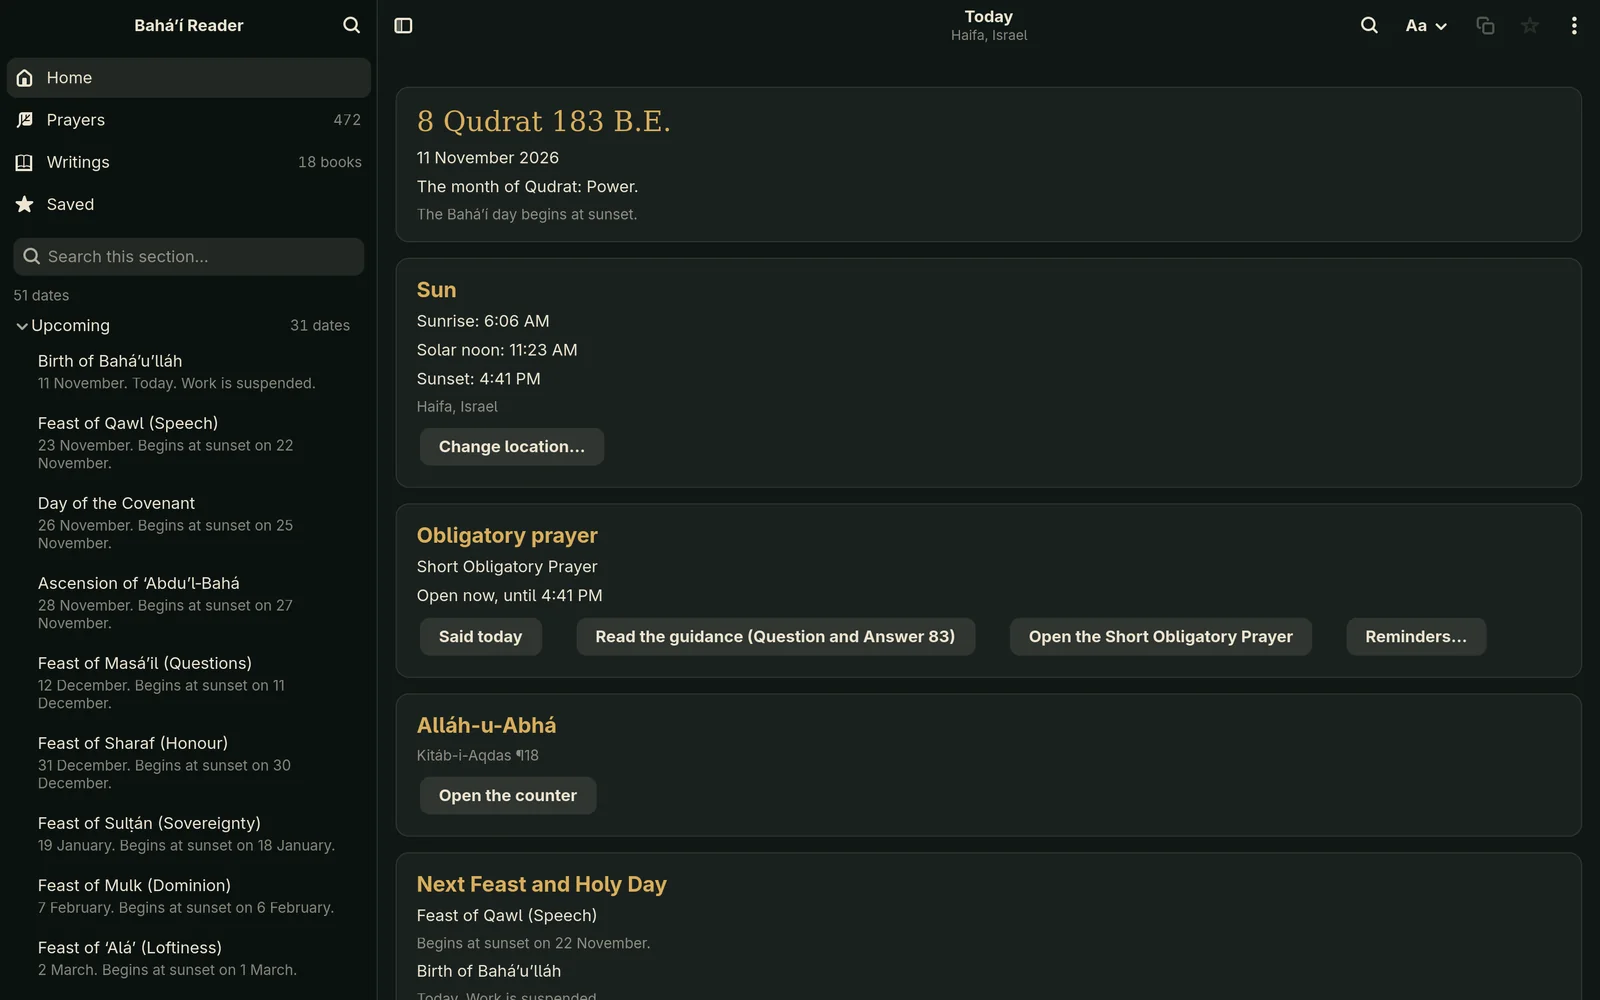
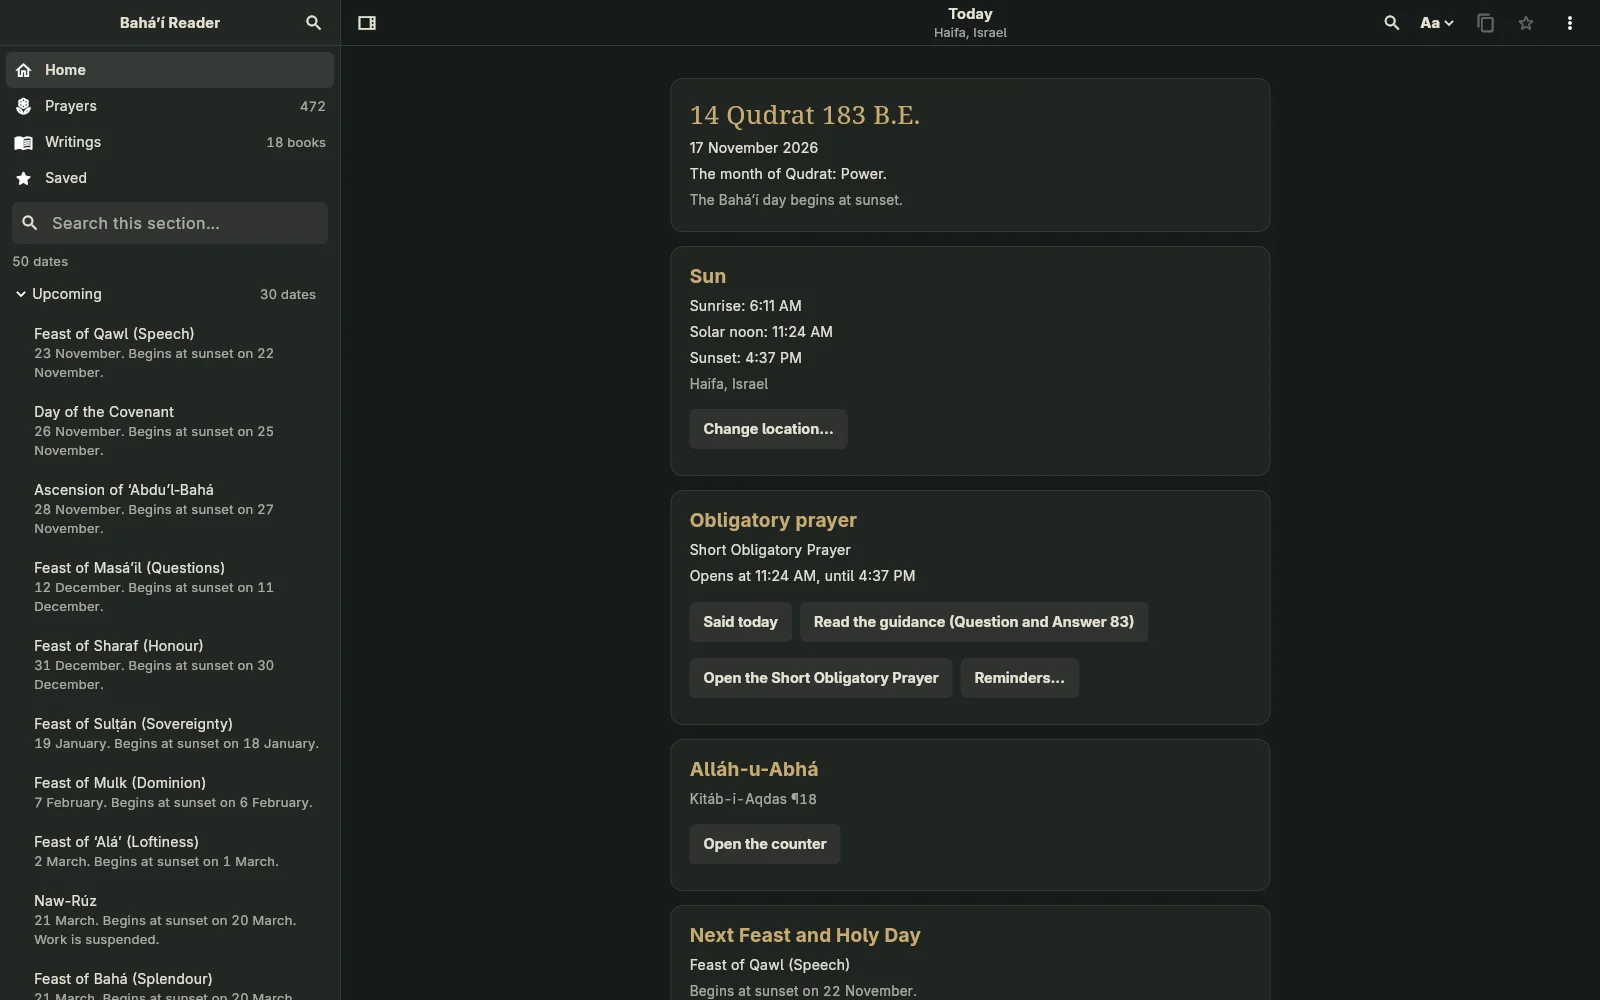
Desktop screenshots of 1.0 for the site, rendered off screen; buttons and tooltips use the interface font
- scripts/screenshots/desktop_shots_test.dart renders the desktop window with the real library and system fonts
  (flutter test ... --update-goldens), scripts/screenshots/convert.sh writes docs/screenshots/*.webp
- Home, a book with its contents, a highlight with its note, Today, Ctrl+K search, focus mode, the light palette
- The social card shows the 1.0 Home and names Linux, Android and Windows
- GTK 0.2 screenshots the site no longer shows are removed (they stay on gtk-legacy)
- Theme: button and tooltip text styles named no font family, so they used the system default and ignored
  Aa → Interface font

diff --git a/docs/index.html b/docs/index.html
@@ -15,12 +15,12 @@
 <meta property="og:url" content="https://bahaireader.org/">
 <meta property="og:image" content="https://bahaireader.org/social-card.png">
 <meta property="og:image:width" content="1200"><meta property="og:image:height" content="630">
-<meta property="og:image:alt" content="Bahá’í Reader on Linux: Home, with today’s Badí‘ date and the library of books">
+<meta property="og:image:alt" content="Bahá’í Reader 1.0 on Linux: Home, with today’s Badí‘ date, Continue reading and the library of books">
 <meta name="twitter:card" content="summary_large_image">
 <meta name="twitter:title" content="Bahá’í Reader — Bahá’í prayers and writings for Linux, Android and Windows">
 <meta name="twitter:description" content="Read Bahá’í prayers, the Hidden Words, and writings offline on Linux, Android and Windows.">
 <meta name="twitter:image" content="https://bahaireader.org/social-card.png">
-<meta name="twitter:image:alt" content="Bahá’í Reader on Linux: Home, with today’s Badí‘ date and the library of books">
+<meta name="twitter:image:alt" content="Bahá’í Reader 1.0 on Linux: Home, with today’s Badí‘ date, Continue reading and the library of books">
 <meta name="theme-color" content="#0f1715"><link rel="icon" href="icon.svg" type="image/svg+xml"><link rel="stylesheet" href="style.css">
 <script type="application/ld+json">{"@context":"https://schema.org","@type":"SoftwareApplication","name":"Bahá’í Reader","applicationCategory":"EducationalApplication","operatingSystem":"Linux, Android, Windows","description":"An offline Bahá’í prayer book and writings reader for Linux, Android and Windows.","url":"https://bahaireader.org/","downloadUrl":"https://github.com/ninepointlabs/bahai-reader/releases","softwareVersion":"1.0.0","isAccessibleForFree":true,"license":"https://github.com/ninepointlabs/bahai-reader/blob/main/LICENSE","author":{"@type":"Person","name":"Tim Apple"},"offers":{"@type":"Offer","price":"0","priceCurrency":"USD"}}</script>
 <script>window.goatcounter={path:function(p){return location.host+p}}</script>
@@ -33,12 +33,12 @@
 <main id="main">
 <section class="hero">
 <div class="hero-copy"><p class="eyebrow"><span></span> LINUX · ANDROID · WINDOWS · v1.0</p><h1>A quiet place<br>for the <em>Writings.</em></h1><p class="lead">Prayers for every moment. Words to return to.<br>Your Bahá’í library, always within reach—even offline.</p><div class="actions"><a class="primary" href="#download">Download <span>↓</span></a><a class="text-link" href="#phone">On your phone →</a></div><p class="fine">Free & open-source code. No account needed.</p></div>
-<figure class="shot hero-shot"><img src="screenshots/01-home-library.webp" width="1600" height="1000" fetchpriority="high" alt="Bahá’í Reader’s Home: today’s Badí‘ date, the obligatory prayer and the passage of the day, Continue reading with three books, and the library grouped by author."><figcaption>Home on Linux in version 0.2, following the Omarchy theme.</figcaption></figure>
+<figure class="shot hero-shot"><img src="screenshots/01-home-library.webp" width="1600" height="1000" fetchpriority="high" alt="Bahá’í Reader’s Home: today’s Badí‘ date, the obligatory prayer and the passage of the day, Continue reading with three books, and the library grouped by author."><figcaption>Home in Bahá’í Reader 1.0 on Linux.</figcaption></figure>
 </section>
 <div class="facts"><div><strong>18</strong><span>Books in English, plus 472 prayers</span></div><div><strong>112</strong><span>Prayer languages in the catalog</span></div><div><strong>Offline</strong><span>Read without a connection</span></div></div>
 <section id="tour" class="tour"><div class="section-intro"><p class="eyebrow">A SHORT TOUR · 1:25</p><h2>See it before<br>you install it.</h2><p>Home, a book, Today, the obligatory prayers, search, highlights and focus mode, in the real 0.2.2 window. Narrated, with captions.</p></div><video controls preload="none" playsinline width="1920" height="1080" poster="media/bahai-reader-demo-poster.webp" aria-label="A 1 minute 25 second narrated tour of Bahá’í Reader 0.2.2, with captions"><source src="media/bahai-reader-demo.mp4" type="video/mp4"><a href="media/bahai-reader-demo.mp4">Download the tour (MP4, 8.6 MB)</a></video></section>
 <section id="library" class="library"><div class="section-intro"><p class="eyebrow">A LIBRARY, THOUGHTFULLY ARRANGED</p><h2>Find your place.<br>Make time to read.</h2><p>Home shows the day at a glance and where you left off. Every book is a card, grouped by author. Open one and the sidebar becomes its contents.</p></div><div class="collections"><article><span class="index">01</span><div><h3>Prayer book</h3><p>472 English prayers organized by topic. Search locally, see prayer lengths, and save passages to return to.</p></div></article><article><span class="index">02</span><div><h3>The Hidden Words</h3><p>The Arabic and Persian sections, each in its own place. Move from one passage to the next at your own pace.</p></div></article><article><span class="index">03</span><div><h3>Writings & messages</h3><p>Seventeen more books by Bahá’u’lláh, ‘Abdu’l‑Bahá, Shoghi Effendi and the Universal House of Justice, from Gleanings and the Kitáb-i-Íqán to God Passes By and the messages of the Universal House of Justice. Aqdas notes and references work offline, too.</p><details><summary>See all seventeen books</summary><p class="by">Bahá’u’lláh</p><ul><li>Gleanings from the Writings of Bahá’u’lláh</li><li>Prayers and Meditations</li><li>Tablets of Bahá’u’lláh</li><li>The Kitáb-i-Íqán</li><li>Epistle to the Son of the Wolf</li><li>The Kitáb-i-Aqdas</li><li>Days of Remembrance</li></ul><p class="by">‘Abdu’l‑Bahá</p><ul><li>Some Answered Questions</li></ul><p class="by">Shoghi Effendi</p><ul><li>The Advent of Divine Justice</li><li>Bahá’í Administration</li><li>Citadel of Faith</li><li>This Decisive Hour</li><li>God Passes By</li><li>The Promised Day Is Come</li><li>The World Order of Bahá’u’lláh</li></ul><p class="by">The Universal House of Justice</p><ul><li>Riḍván Messages</li><li>Messages of the Universal House of Justice</li></ul></details></div></article></div></section>
-<section id="reading" class="gallery"><div class="section-intro"><p class="eyebrow">ON YOUR COMPUTER</p><h2>A window made<br>for reading.</h2><p>Home, Prayers, Writings and Saved in the sidebar, the text beside them. Shown here in version 0.2; 1.0 keeps the same layout on Linux and Windows.</p></div><div class="shots"><figure class="shot"><img src="screenshots/02-reader-hidden-words-contents.webp" width="1600" height="1000" loading="lazy" alt="The Hidden Words open at Arabic no. 12, with the book’s contents in the sidebar and the progress bar under the text."><figcaption><p class="eyebrow">A BOOK</p><h3>Contents beside the words.</h3><p>Open a book and the sidebar becomes its parts and passages, with Back to the library. Your place in the book sits under the text.</p></figcaption></figure><figure class="shot"><img src="screenshots/06-search-ctrl-k.webp" width="1600" height="1000" loading="lazy" alt="The Ctrl+K search window over a passage, with results for “radiant heart” grouped by book and This book and Everything scopes."><figcaption><p class="eyebrow">SEARCH · CTRL+K</p><h3>Every text, or only this book.</h3><p>One search over every prayer and writing, offline, without regard to case, accents or apostrophes. Results are grouped by book; Enter opens the passage at the match.</p></figcaption></figure><figure class="shot"><img src="screenshots/03-reader-highlight-note.webp" width="1600" height="1000" loading="lazy" alt="A highlighted phrase in the Hidden Words, with the highlight’s colours and note open above it."><figcaption><p class="eyebrow">HIGHLIGHTS & NOTES</p><h3>Mark a line. Add a note.</h3><p>Select words for four highlight colours and a note. Saved → Highlights & notes lists them all. They stay in your settings, never in the texts.</p></figcaption></figure><figure class="shot"><img src="screenshots/07-focus-mode.webp" width="1600" height="1000" loading="lazy" alt="Focus mode: only the passage, its heading and the reading footer fill the window."><figcaption><p class="eyebrow">FOCUS MODE · F11</p><h3>Only the words.</h3><p>F11 hides everything but the text. Press it again, or Escape, to come back.</p></figcaption></figure><figure class="shot"><img src="screenshots/04-today.webp" width="1600" height="1000" loading="lazy" alt="The Today page: the Badí‘ date 8 Qudrat 183 B.E., sunrise and sunset, the obligatory prayer, the Alláh-u-Abhá counter and the next Feast and Holy Day."><figcaption><p class="eyebrow">TODAY · CTRL+T</p><h3>The day, in one place.</h3><p>The Badí‘ date, the sun’s times for your place, the obligatory prayer, the Alláh-u-Abhá counter, and the next Feast and Holy Day.</p></figcaption></figure><figure class="shot"><img src="screenshots/10b-light-reader-highlight.webp" width="1600" height="1000" loading="lazy" alt="The Hidden Words in the light palette, with a highlight in the text."><figcaption><p class="eyebrow">LIGHT, DARK, OMARCHY</p><h3>Your theme comes with you.</h3><p>Omarchy colours follow your active theme while the app is open. Elsewhere, choose light, dark or sepia.</p></figcaption></figure></div></section>
+<section id="reading" class="gallery"><div class="section-intro"><p class="eyebrow">ON YOUR COMPUTER</p><h2>A window made<br>for reading.</h2><p>Home, Prayers, Writings and Saved in the sidebar, the text beside them. The same window on Linux and Windows.</p></div><div class="shots"><figure class="shot"><img src="screenshots/02-reader-book-contents.webp" width="1600" height="1000" loading="lazy" alt="Gleanings from the Writings of Bahá’u’lláh open at XXVII, with the book’s contents in the sidebar and the progress bar under the text."><figcaption><p class="eyebrow">A BOOK</p><h3>Contents beside the words.</h3><p>Open a book and the sidebar becomes its parts and passages, with Back to the library. Your place in the book sits under the text.</p></figcaption></figure><figure class="shot"><img src="screenshots/06-search-ctrl-k.webp" width="1600" height="1000" loading="lazy" alt="The Ctrl+K search window over a passage, with 26 results for “radiant heart” across everything and the This book and Everything scopes."><figcaption><p class="eyebrow">SEARCH · CTRL+K</p><h3>Every text, or only this book.</h3><p>One search over every prayer and writing, offline, without regard to case, accents or apostrophes. Results are grouped by book; Enter opens the passage at the match.</p></figcaption></figure><figure class="shot"><img src="screenshots/03-reader-highlight-note.webp" width="1600" height="1000" loading="lazy" alt="A highlighted phrase in the Hidden Words, Arabic no. 12, with the highlight’s colours and its note open above it."><figcaption><p class="eyebrow">HIGHLIGHTS & NOTES</p><h3>Mark a line. Add a note.</h3><p>Select words for four highlight colours and a note. Saved → Highlights & notes lists them all. They stay in your settings, never in the texts.</p></figcaption></figure><figure class="shot"><img src="screenshots/07-focus-mode.webp" width="1600" height="1000" loading="lazy" alt="Focus mode: only Gleanings XXVII, its heading and the text fill the window."><figcaption><p class="eyebrow">FOCUS MODE · F11</p><h3>Only the words.</h3><p>F11 hides everything but the text. Press it again, or Escape, to come back.</p></figcaption></figure><figure class="shot"><img src="screenshots/04-today.webp" width="1600" height="1000" loading="lazy" alt="The Today page: the Badí‘ date 14 Qudrat 183 B.E., sunrise, noon and sunset in Haifa, the Short Obligatory Prayer’s time, the Alláh-u-Abhá counter, and the Holy Days and Feasts ahead in the sidebar."><figcaption><p class="eyebrow">TODAY · CTRL+T</p><h3>The day, in one place.</h3><p>The Badí‘ date, the sun’s times for your place, the obligatory prayer, the Alláh-u-Abhá counter, and the next Feast and Holy Day.</p></figcaption></figure><figure class="shot"><img src="screenshots/10b-light-reader-highlight.webp" width="1600" height="1000" loading="lazy" alt="The Hidden Words in the light palette, with a highlight in the text."><figcaption><p class="eyebrow">LIGHT, DARK, OMARCHY</p><h3>Your theme comes with you.</h3><p>Omarchy colours follow your active theme while the app is open. Elsewhere, choose light, dark or sepia.</p></figcaption></figure></div></section>
 <section id="phone" class="gallery phone"><div class="section-intro"><p class="eyebrow">NEW IN 1.0 · ANDROID</p><h2>The same library,<br>in your pocket.</h2><p>Today, the prayers and writings, search, highlights, notes and saved passages, the Alláh-u-Abhá counter, and reminders that arrive with the app closed. Everything works offline.</p></div><div class="phone-shots">
 <figure class="shot"><img src="screenshots/phone-today.webp" width="720" height="1488" loading="lazy" alt="Today on an Android phone: the Badí‘ date 14 Qudrat 183 B.E., sunrise, noon and sunset in Haifa, and the Short Obligatory Prayer’s time."><figcaption>Today</figcaption></figure>
 <figure class="shot"><img src="screenshots/phone-prayer.webp" width="720" height="1488" loading="lazy" alt="A prayer by ‘Abdu’l‑Bahá, “O Thou kind Lord! We are servants of Thy Threshold”, open on the phone."><figcaption>A prayer</figcaption></figure>

diff --git a/scripts/screenshots/desktop_shots_test.dart b/scripts/screenshots/desktop_shots_test.dart
@@ -1,0 +1,158 @@
+// Renders the desktop window for the website's screenshots, off screen, with the real library and system fonts.
+//   flutter test scripts/screenshots/desktop_shots_test.dart --update-goldens
+// writes PNGs to scripts/screenshots/out/; scripts/screenshots/convert.sh turns them into docs/screenshots/*.webp.
+// Not part of the test suite (it lives outside test/ and needs the fonts below installed).
+import 'dart:io';
+
+import 'package:bahai_reader/core/app/app_state.dart';
+import 'package:bahai_reader/core/calendar/badi.dart';
+import 'package:bahai_reader/core/library/library_repository.dart';
+import 'package:bahai_reader/core/settings/settings_store.dart';
+import 'package:bahai_reader/main.dart';
+import 'package:flutter/material.dart';
+import 'package:flutter/services.dart';
+import 'package:flutter_test/flutter_test.dart';
+
+import '../../test/app_test.dart' show settle;
+import '../../test/disk_bundle.dart';
+
+const size = Size(1600, 1000);
+final material = '${Platform.environment['FLUTTER_ROOT']}/bin/cache/artifacts/material_fonts';
+
+final fonts = {
+  'Noto Serif': [
+    for (final s in ['Regular', 'Bold', 'Italic', 'BoldItalic']) '/usr/share/fonts/noto/NotoSerif-$s.ttf',
+  ],
+  'Adwaita Sans': [
+    '/usr/share/fonts/Adwaita/AdwaitaSans-Regular.ttf',
+    '/usr/share/fonts/Adwaita/AdwaitaSans-Italic.ttf',
+  ],
+  'Roboto': [
+    for (final s in ['Regular', 'Medium', 'Bold']) '$material/Roboto-$s.ttf',
+  ],
+  'MaterialIcons': ['$material/MaterialIcons-Regular.otf'],
+};
+
+Future<void> loadFonts() async {
+  for (final MapEntry(key: family, value: files) in fonts.entries) {
+    final loader = FontLoader(family);
+    for (final f in files) {
+      loader.addFont(Future.value(ByteData.sublistView(File(f).readAsBytesSync())));
+    }
+    await loader.load();
+  }
+}
+
+void main() {
+  late Directory dir;
+  setUpAll(loadFonts);
+  setUp(() => dir = Directory.systemTemp.createTempSync('bahai-reader-shots'));
+  tearDown(() => dir.deleteSync(recursive: true));
+
+  /// A reader's state: Haifa, the short obligatory prayer, three books read, a highlight with a note.
+  Future<AppState> state(WidgetTester tester, {String theme = 'dark'}) async {
+    final s = (await tester.runAsync(
+      () => AppState.create(
+        repository: LibraryRepository(bundle: DiskBundle()),
+        store: SettingsStore(File('${dir.path}/settings.json')),
+      ),
+    ))!;
+    await tester.runAsync(() async {
+      await s.setTheme(theme);
+      await s.setLocation(Place.clean({'label': 'Haifa, Israel', 'lat': 32.82, 'lon': 34.99, 'tz': 'Asia/Jerusalem'}));
+      await s.setPrayer('short');
+      final lib = s.library!;
+      for (final (book, id) in [
+        ('The Kitáb-i-Íqán', 'iqan:40'),
+        ('Gleanings from the Writings of Bahá’u’lláh', 'gleanings:27'),
+        ('The Hidden Words', 'hidden:12'),
+      ]) {
+        s.rememberPosition(lib.books.firstWhere((w) => w.title == book), lib.byId[id]!);
+      }
+      final p = lib.byId['hidden:12']!;
+      const words = 'within thee have I placed the essence of My light';
+      final at = p.text.indexOf(words);
+      await s.addHighlight(
+        p,
+        at,
+        at + words.length,
+        color: 'yellow',
+        note: 'Content with what is placed within: nothing else is needed.',
+      );
+    });
+    return s;
+  }
+
+  void window(WidgetTester tester) {
+    tester.view
+      ..physicalSize = size
+      ..devicePixelRatio = 1;
+    addTearDown(tester.view.reset);
+  }
+
+  Future<void> shot(String name) => expectLater(find.byType(BahaiReaderApp), matchesGoldenFile('out/$name.png'));
+
+  Future<void> keys(WidgetTester tester, LogicalKeyboardKey key, {bool control = false}) async {
+    if (control) await tester.sendKeyDownEvent(LogicalKeyboardKey.controlLeft);
+    await tester.sendKeyEvent(key);
+    if (control) await tester.sendKeyUpEvent(LogicalKeyboardKey.controlLeft);
+    await settle(tester);
+  }
+
+  Future<AppState> open(WidgetTester tester, {String? id, String theme = 'dark', int? margin}) async {
+    window(tester);
+    final s = await state(tester, theme: theme);
+    if (margin != null) s.settings.margin = margin;
+    await tester.pumpWidget(BahaiReaderApp(state: s, desktop: true, openId: id));
+    await settle(tester);
+    return s;
+  }
+
+  testWidgets('home', (tester) async {
+    await open(tester);
+    await shot('01-home-library');
+  });
+
+  testWidgets('a book with its contents', (tester) async {
+    await open(tester, id: 'gleanings:27');
+    await shot('02-reader-book-contents');
+  });
+
+  testWidgets('a highlight with its note', (tester) async {
+    await open(tester, id: 'hidden:12');
+    final text = tester.widget<SelectableText>(find.byType(SelectableText).first);
+    final at = (text.data ?? text.textSpan!.toPlainText()).indexOf('the essence');
+    text.onSelectionChanged!(TextSelection.collapsed(offset: at), SelectionChangedCause.tap);
+    await settle(tester);
+    await shot('03-reader-highlight-note');
+  });
+
+  testWidgets('today', (tester) async {
+    await open(tester);
+    await keys(tester, LogicalKeyboardKey.keyT, control: true);
+    await shot('04-today');
+  });
+
+  testWidgets('search', (tester) async {
+    final s = await open(tester, id: 'hidden:12');
+    await tester.runAsync(() => s.searchIndex());
+    await keys(tester, LogicalKeyboardKey.keyK, control: true);
+    await tester.enterText(find.widgetWithText(TextField, 'Search the texts…'), 'radiant heart');
+    await tester.pump(const Duration(milliseconds: 200));
+    await settle(tester);
+    await tester.tap(find.textContaining(RegExp(r'^Everything · ')));
+    await settle(tester);
+    await shot('06-search-ctrl-k');
+  });
+
+  testWidgets('focus mode', (tester) async {
+    await open(tester, id: 'gleanings:27', margin: 160);
+    await keys(tester, LogicalKeyboardKey.f11);
+    await shot('07-focus-mode');
+  });
+
+  testWidgets('light', (tester) async {
+    await open(tester, id: 'hidden:12', theme: 'light');
+    await shot('10b-light-reader-highlight');
+  });
+}

diff --git a/lib/core/app/theme.dart b/lib/core/app/theme.dart
@@ -186,6 +186,13 @@ ThemeData buildTheme(Palette p, {bool monospace = false}) {
   );
   final soft = fg.withValues(alpha: 0.07);
   final radius = BorderRadius.circular(6);
+  // Styles given in full (buttons, tooltips) replace the theme's text style, so they name the interface font too;
+  // otherwise they fall back to the system default font and ignore Aa → Interface font.
+  final face = TextStyle(
+    fontFamily: monospace ? 'monospace' : interfaceFonts.first,
+    fontFamilyFallback: monospace ? interfaceFonts : interfaceFonts.sublist(1),
+  );
+  final label = face.copyWith(fontWeight: FontWeight.w700, fontSize: 14.5);
   final base = ThemeData(
     colorScheme: scheme,
     useMaterial3: true,
@@ -229,7 +236,7 @@ ThemeData buildTheme(Palette p, {bool monospace = false}) {
     ),
     tooltipTheme: TooltipThemeData(
       decoration: BoxDecoration(color: p.raised, borderRadius: radius, border: Border.all(color: fg.withValues(alpha: 0.12))),
-      textStyle: TextStyle(color: fg, fontSize: 13),
+      textStyle: face.copyWith(color: fg, fontSize: 13),
       waitDuration: const Duration(milliseconds: 500),
     ),
     filledButtonTheme: FilledButtonThemeData(
@@ -237,7 +244,7 @@ ThemeData buildTheme(Palette p, {bool monospace = false}) {
         backgroundColor: p.accent,
         foregroundColor: p.onAccent,
         shape: RoundedRectangleBorder(borderRadius: radius),
-        textStyle: const TextStyle(fontWeight: FontWeight.w700, fontSize: 14.5),
+        textStyle: label,
         padding: const EdgeInsets.symmetric(horizontal: 14, vertical: 12),
       ),
     ),
@@ -247,7 +254,7 @@ ThemeData buildTheme(Palette p, {bool monospace = false}) {
         foregroundColor: fg,
         side: BorderSide.none,
         shape: RoundedRectangleBorder(borderRadius: radius),
-        textStyle: const TextStyle(fontWeight: FontWeight.w700, fontSize: 14.5),
+        textStyle: label,
         padding: const EdgeInsets.symmetric(horizontal: 14, vertical: 12),
       ),
     ),
@@ -255,7 +262,7 @@ ThemeData buildTheme(Palette p, {bool monospace = false}) {
       style: TextButton.styleFrom(
         foregroundColor: fg,
         shape: RoundedRectangleBorder(borderRadius: radius),
-        textStyle: const TextStyle(fontWeight: FontWeight.w700, fontSize: 14.5),
+        textStyle: label,
       ),
     ),
     iconButtonTheme: IconButtonThemeData(

diff --git a/README.md b/README.md
@@ -162,6 +162,7 @@ lib/
     settings/  about/                     shared by both
 packaging/                     desktop file, icons, AppStream metainfo, nFPM, AppRun, Flatpak manifest, Windows installer
 scripts/build-*.sh             Linux packages, AppImage and Flatpak from the release bundle
+scripts/screenshots/           the website's desktop screenshots, rendered off screen (see the file's header)
 scripts/convert_library.py     rebuilds assets/library/ and assets/calendar/ from the GTK app's data/
 scripts/calendar_fixtures.py   expected answers from the GTK app's badi.py, for test/calendar_test.dart
 scripts/reminder_fixtures.py   expected reminders from the GTK app's badi.py, for test/reminders_test.dart
